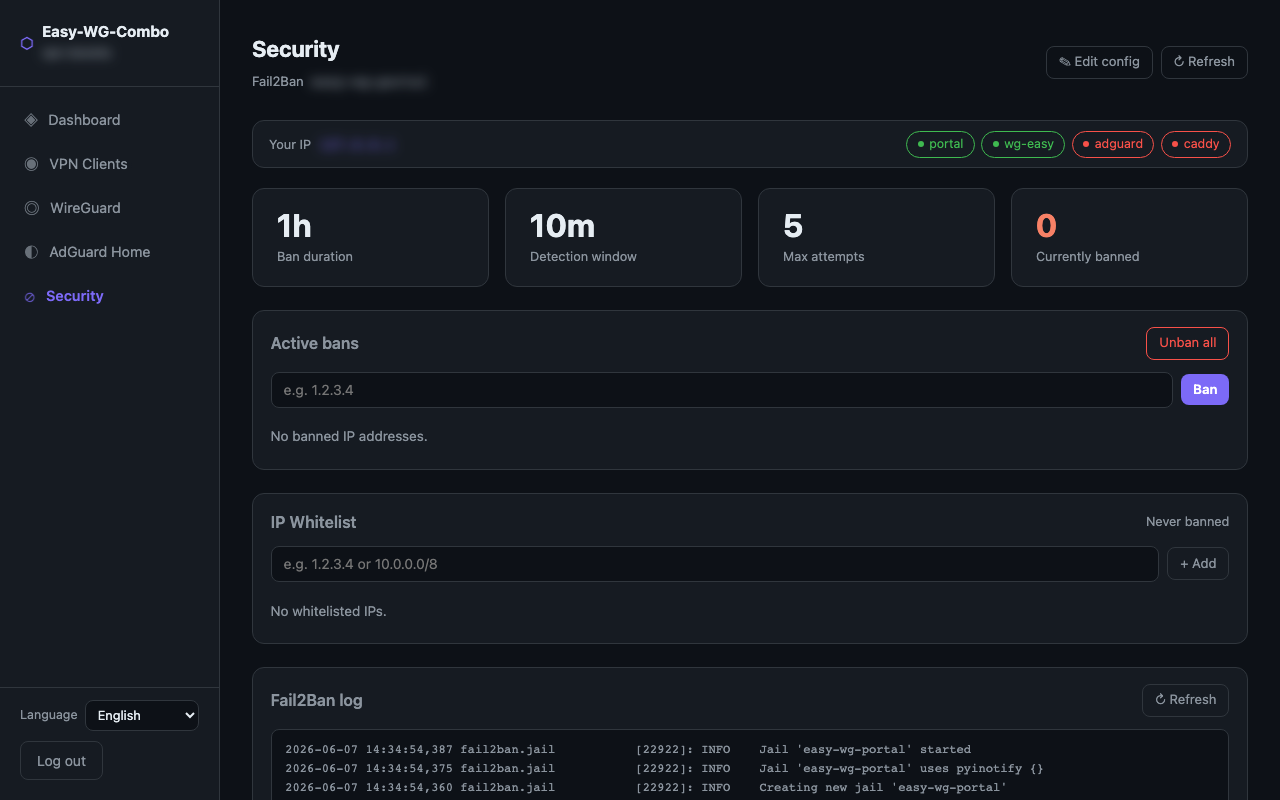
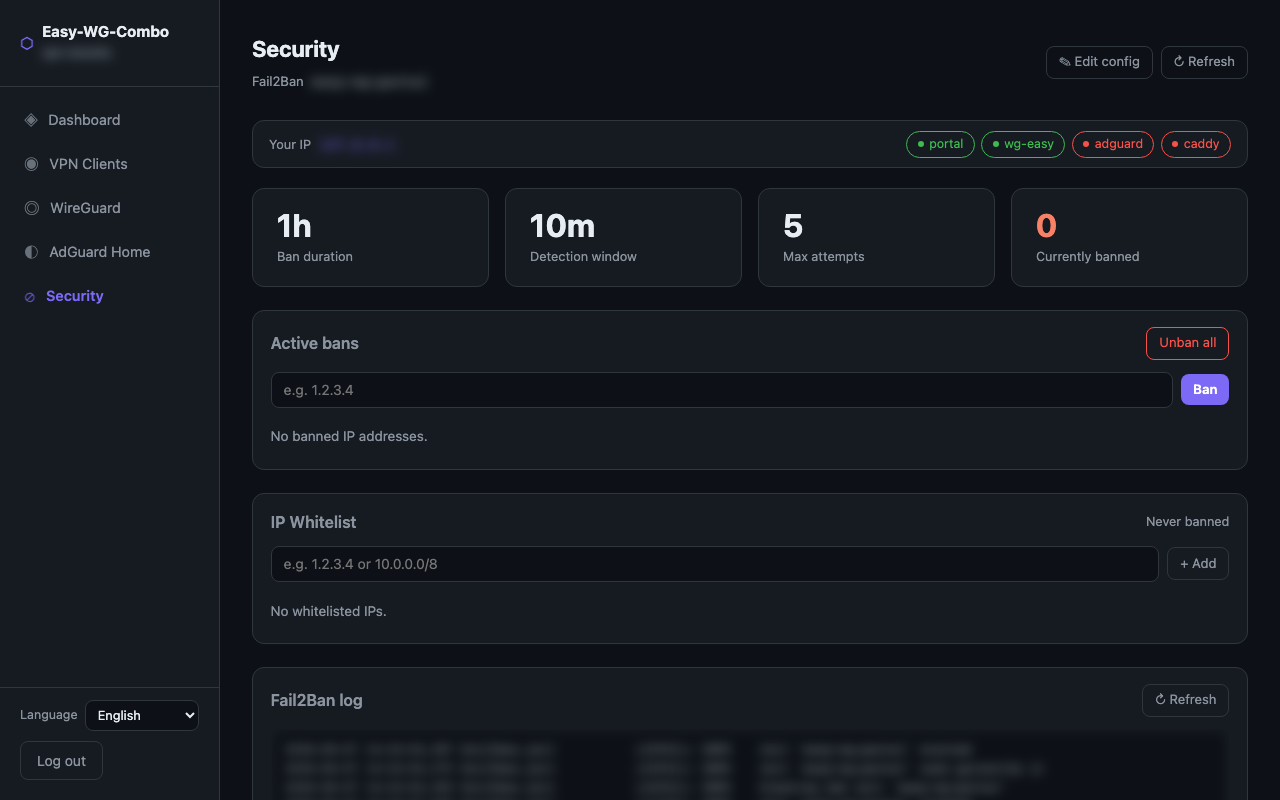
docs: full anonymization — blur paths, timestamps, jaillog, TLS, sessions

Changed region(s): [[0.5938, 0.9062, 0.8125, 1.0], [0.2188, 0.9062, 0.4375, 1.0], [0.5, 0.9062, 0.5625, 1.0]]

diff --git a/README.md b/README.md
@@ -39,6 +39,8 @@ All admin UIs are localhost-only. Access via SSH tunnel.
 
 ![Easy-WG-Combo security tab](docs/screenshots/security.png)
 
+![Easy-WG-Combo security tab — sessions & TLS](docs/screenshots/security-sessions.png)
+
 ![Easy-WG-Combo security tab — logs](docs/screenshots/security-logs.png)
 
 ### Integrated WireGuard view
